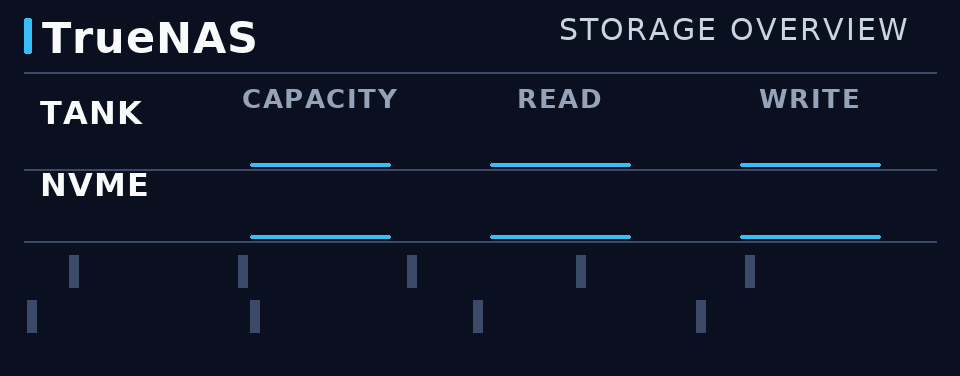
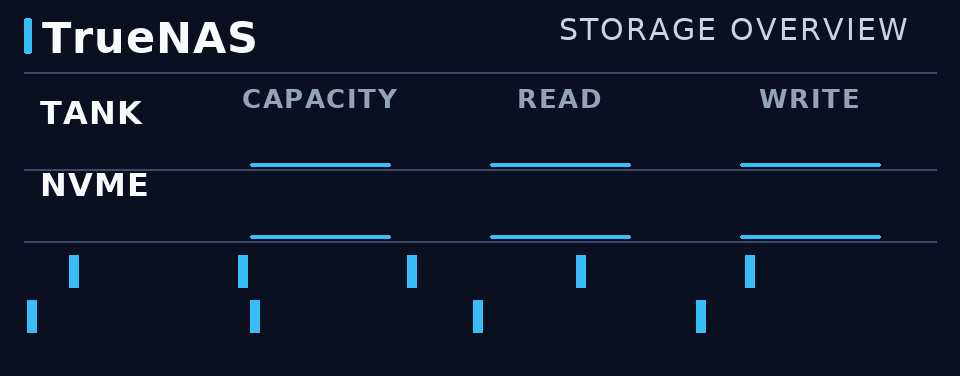
Recolor disk-divider ticks: DIVIDER -> ACCENT
The ticks were using DIVIDER (#3a4a68, the dark muted color for the
horizontal rule lines) instead of ACCENT (#38bdf8, the bright blue used
for the header bar and the CAPACITY/READ/WRITE underline bars) -- too
dark to read clearly, likely the actual reason each prior pass asked for
them wider. Same color as the rest of the page's "blue lines" now;
thickness (currently 10px) can be revisited from here with the right
color as a baseline.

diff --git a/scripts/render-storage-bg.py b/scripts/render-storage-bg.py
@@ -205,6 +205,13 @@ for row_label, label_y, bar_y, divider_y in (
 # positive, matches other verified-safe junctions elsewhere in this
 # layout) -- monitor.json's disk*_temp_*/dot_* x's shifted accordingly,
 # rows still fit the page width with 22-27px to spare.
+#
+# 15th pass (2026-08-17): color was DIVIDER (the dark, muted horizontal-
+# rule color, #3a4a68) -- on-device this read as too dark to see clearly,
+# which was likely the real reason it kept getting asked to be wider each
+# pass. Switched to ACCENT (#38bdf8), the bright blue already used for
+# the header bar and the CAPACITY/READ/WRITE underline bars, so it reads
+# as the same "blue line" language as the rest of the page.
 TICK_HALF_HEIGHT = 16
 TICK_WIDTH = 10
 for row_y, disk_name_xs in (
@@ -213,7 +220,7 @@ for row_y, disk_name_xs in (
 ):
     for name_x in disk_name_xs:
         tick_x = name_x - 9
-        d.line((tick_x, row_y - TICK_HALF_HEIGHT, tick_x, row_y + TICK_HALF_HEIGHT), fill=DIVIDER, width=TICK_WIDTH)
+        d.line((tick_x, row_y - TICK_HALF_HEIGHT, tick_x, row_y + TICK_HALF_HEIGHT), fill=ACCENT, width=TICK_WIDTH)
 
 # Footer: entirely live monitor.json sensor fields -- status dot+text
 # (left), date_time (center), ip_address (right). Nothing left to draw
